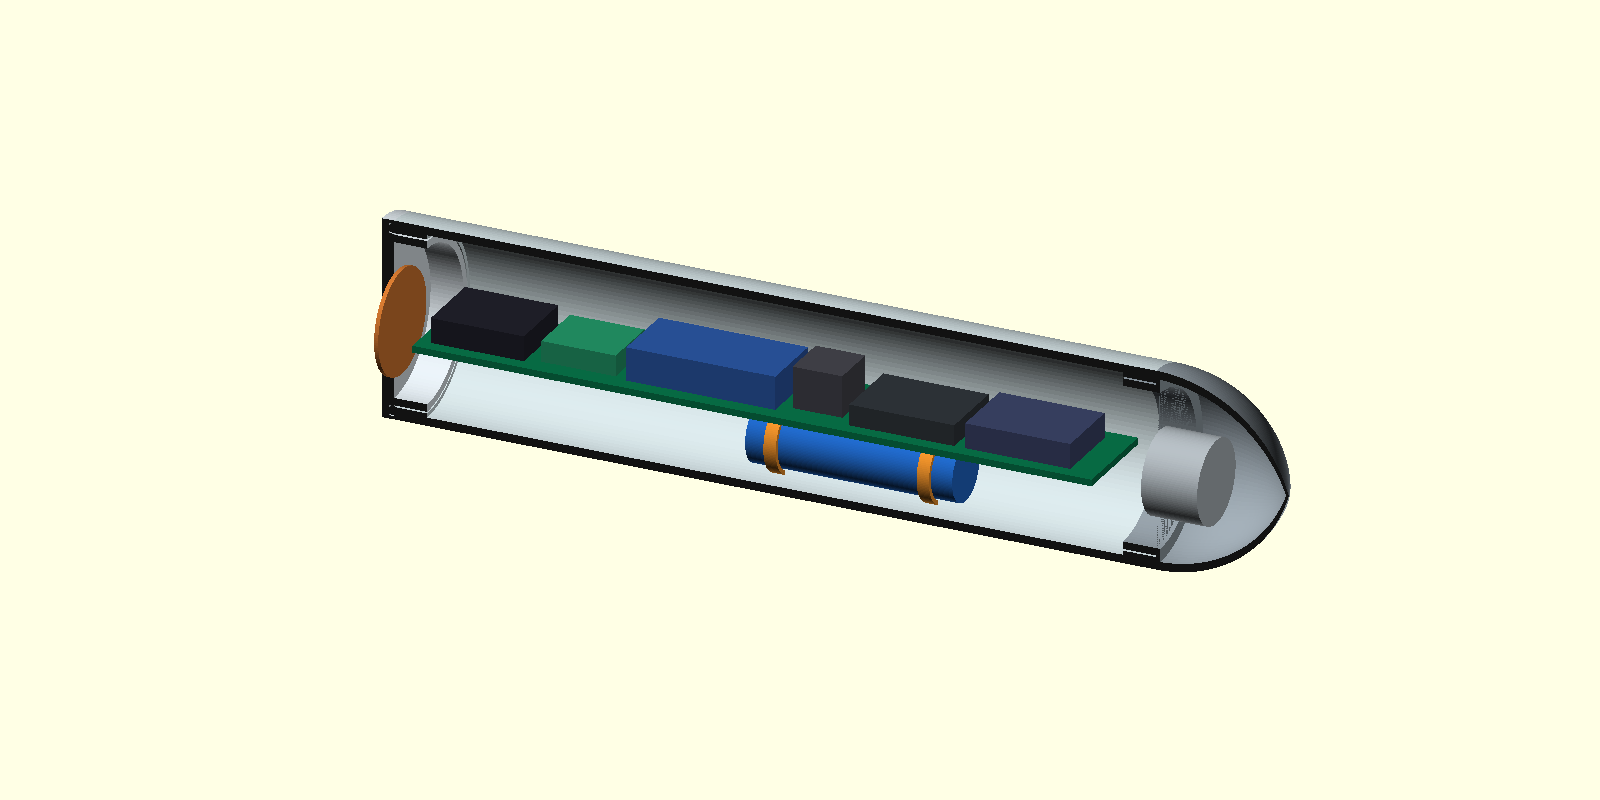
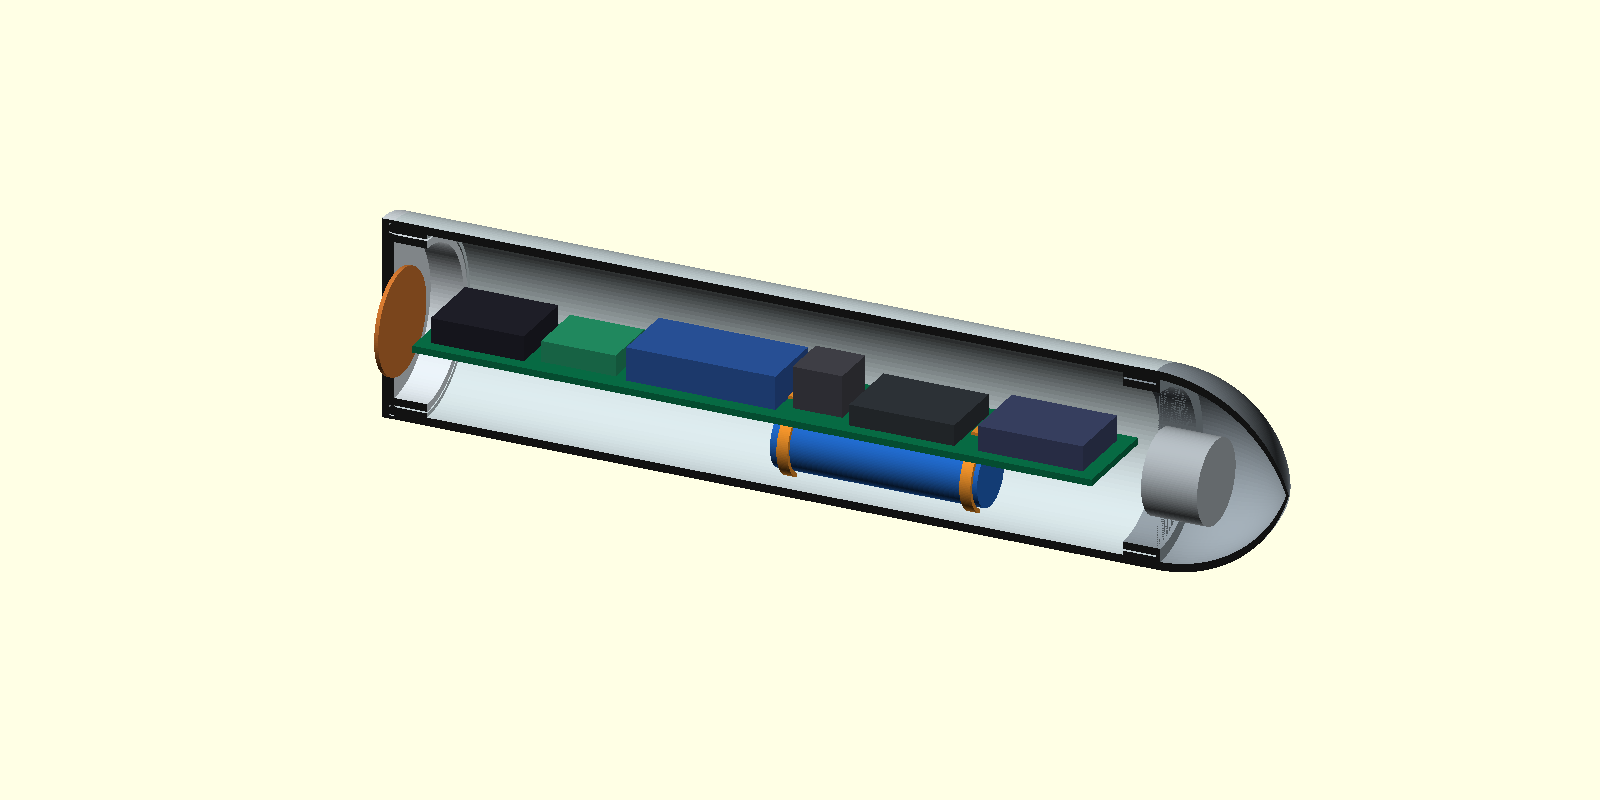
Reserve clear PCB spaces for battery clips

Changed region(s): [[0.5625, 0.5, 0.625, 0.6562], [0.6562, 0.5, 0.7188, 0.5938], [0.4688, 0.5312, 0.5, 0.5938]]

diff --git a/hardware/pcb_portadora/generar_vista.py b/hardware/pcb_portadora/generar_vista.py
@@ -26,7 +26,8 @@ text = BOARD.read_text(encoding="utf-8")
 outline = rectangles(text, "Edge.Cuts")
 front = rectangles(text, "F.Fab")
 back = rectangles(text, "B.Fab")
-if len(outline) != 1 or len(front) != 6 or len(back) != 1:
+clips = rectangles(text, "Dwgs.User")
+if len(outline) != 1 or len(front) != 6 or len(back) != 1 or len(clips) != 2:
     raise ValueError("Unexpected mechanical rectangles; review the rendering script")
 
 page_width, page_height = landscape(A4)
@@ -84,6 +85,8 @@ labels = [
 for rect, lines in zip(front, labels):
     draw_box(rect, top_y, colors.HexColor("#c5dfe6"))
     label(rect, top_y, lines)
+for rect in clips:
+    draw_box(rect, top_y, colors.HexColor("#f8a737"), colors.HexColor("#a45605"))
 
 pdf.setFont("Helvetica", 10)
 pdf.setFillColor(colors.HexColor("#172b35"))
@@ -96,6 +99,8 @@ bottom_y = top_y - 24 * scale - 65
 draw_box(outline[0], bottom_y, colors.HexColor("#eef4f1"))
 draw_box(back[0], bottom_y, colors.HexColor("#f8d7a7"), colors.HexColor("#ae7130"))
 label(back[0], bottom_y, ["14500 · 50 x 14 nominal", "bajo la PCB"])
+for rect in clips:
+    draw_box(rect, bottom_y, colors.HexColor("#f8a737"), colors.HexColor("#a45605"))
 
 pdf.setFillColor(colors.HexColor("#172b35"))
 pdf.setFont("Helvetica", 10)
@@ -104,7 +109,7 @@ for note in [
     "Contorno provisional: 164 x 24 mm. C1: reserva arbitraria de 12 x 12 mm.",
     "Bobina y actuador fuera de la placa. Dimensiones en mm; dibujo no apto para fabricar.",
     "Faltan huellas, conectores, pines, pistas, corriente del actuador y protecciones.",
-    "USB y bobina pueden interferir; clips de batería y distancias sin validar.",
+    "Naranja: reservas para clips, no ranuras finales. Verificar pines y cobre.",
 ]:
     pdf.drawString(55, notes_y, note)
     notes_y -= 15

diff --git a/hardware/capsula_3d/README.md b/hardware/capsula_3d/README.md
@@ -4,7 +4,7 @@ Interpretación del croquis y de la aclaración del usuario: **cuerpo cilíndric
 
 La [vista en corte](capsula_corte.png) muestra la geometría y los bloques de referencia; la bobina naranja se representa junto a la tapa, la batería azul bajo la PCB y el actuador en la punta.
 
-El ESP32 se ha trasladado al extremo de la tapa para orientar su USB-C hacia ella; el bloque no modela el conector. La bobina puede bloquear el acceso: falta comprobar el espacio del cable y definir si se aparta la bobina o se extrae el conjunto. Dos abrazaderas naranjas representan la idea del croquis para sujetar la batería bajo la PCB, **sin pestañas ni ranuras modeladas**. Son indicativas y no garantizan elasticidad, retención axial ni aislamiento; falta diseñar también los contactos eléctricos y las aberturas de la PCB.
+El ESP32 se ha trasladado al extremo de la tapa para orientar su USB-C hacia ella; el bloque no modela el conector. La bobina puede bloquear el acceso: falta comprobar el espacio del cable y definir si se aparta la bobina o se extrae el conjunto. Dos abrazaderas naranjas con pestañas y aberturas simbólicas representan la idea del croquis para sujetar la batería bajo la PCB. Sus pestañas están en los espacios entre boost y condensador y entre IMU y DRV8833, no bajo las envolventes mostradas. No hay un mecanismo de clic validado ni garantía de elasticidad, retención axial o aislamiento; faltan contactos, dimensionado de ranuras y comprobación de pines y cobre.
 
 **No es un diseño imprimible ni estanco.** Se representan encajes lisos simbólicos en ambas uniones y una junta tórica con ranura ilustrativa en la tapa: **todavía no hay roscas helicoidales** ni dimensiones de sellado verificadas. La sección transversal de la junta se superpone intencionadamente a la superficie del cuerpo en la vista ensamblada: no es una simulación validada de compresión. El diámetro, sección, alojamiento, compresión y material de la junta, el tipo de rosca, sentido, paso, holguras y sellado deben diseñarse para las piezas y el proceso de impresión. La unión de la ojiva también requiere una solución de estanqueidad. No existen fijaciones, guías, soporte de PCB ni paso de cables.
 

diff --git a/hardware/pcb_portadora/README.md b/hardware/pcb_portadora/README.md
@@ -10,7 +10,9 @@ El contorno rectangular de **164 × 24 mm** es una primera hipótesis de empaque
 
 El acceso USB **no está resuelto**: la bobina de carga ocupa el eje junto a la tapa y podría impedir introducir el conector. Habrá que comprobar el recorrido del cable y decidir si la bobina se aparta, si se extrae el conjunto u otra solución, sin comprometer el cierre. No conectar simultáneamente USB y otra alimentación hasta verificar el circuito de la placa.
 
-El croquis del usuario propone **dos piezas de sujeción bajo la PCB**, tipo abrazadera, con pestañas que encajarían en aberturas de la placa. Se representan de forma conceptual en la maqueta 3D, no en la PCB: no hay ranuras ni huellas de clips definidas. Falta dimensionar material, elasticidad, pestañas, separación, sujeción axial, aislamiento y contactos de la 14500; evitar presión o roce sobre la celda, cortocircuitos y daños por soldar directamente en ella.
+El croquis del usuario propone **dos piezas de sujeción bajo la PCB**, tipo abrazadera, con pestañas que encajarían en aberturas de la placa. Se reservan dos zonas **entre boost y C1, y entre IMU y DRV8833**, sin solaparse con los rectángulos de los módulos. El driver se ha desplazado hacia la punta y la batería hacia él. Las zonas están dibujadas en naranja en el PDF y en `Dwgs.User` en KiCad: son únicamente reservas, **no ranuras de fabricación** ni keepouts eléctricos. La maqueta 3D representa aberturas y pestañas simbólicas, pero no un mecanismo de clic.
+
+Los huecos entre envolventes son provisionales y pequeños: faltan pines, soldaduras, conectores, pistas y tolerancias. Habrá que mantener libre la zona para el movimiento de las pestañas y especificar restricciones de cobre y distancias eléctricas al diseñar la PCB; ampliar o recolocar componentes si no caben. Dimensionar material, elasticidad, pestañas, separación, sujeción axial, aislamiento y contactos de la 14500; evitar presión o roce sobre la celda, cortocircuitos y daños por soldar directamente en ella.
 
 | Reserva en la maqueta | Dimensiones de referencia (mm) | Estado |
 |---|---:|---|

diff --git a/docs/DISTRIBUCION_INTERIOR_CAPSULA.md b/docs/DISTRIBUCION_INTERIOR_CAPSULA.md
@@ -22,7 +22,7 @@ Propuesta para diseñar la cápsula impresa en 3D **a partir de los componentes*
 - La bobina receptora va junto a la tapa, enfrentada al transmisor externo, con su orientación y separación a validar mediante una prueba de carga.
 - El ESP32 se sitúa en el extremo de la PCB próximo a la tapa, con el USB-C orientado hacia ella. Siguen el receptor/cargador, boost, IMU y etapa DRV8833. Se diseñará una PCB portadora para soldar los módulos; en los que no traigan pines se colocarán pines adecuados. El dibujo no presupone conexiones eléctricas en serie. La bobina puede obstruir el USB: comprobar el conector y la posibilidad de apartarla o extraer la PCB; no se garantiza acceso con la cápsula montada.
 - La batería se sitúa bajo la PCB y cerca del extremo lastrado, donde quepa sin invadir el actuador. La orientación «bajo» se refiere a la cara del soporte, no a una dirección vertical fija durante la flotación.
-- El usuario propone dos abrazaderas bajo la PCB con pestañas que encajen en la placa. Su representación 3D es esquemática: ranuras, elasticidad, retención axial, aislamiento y contactos de la batería quedan por diseñar.
+- El usuario propone dos abrazaderas bajo la PCB con pestañas que encajen en huecos libres entre componentes. Se reservan espacios entre boost y condensador y entre IMU y DRV8833; la representación es esquemática. Ranuras, movimiento de las pestañas, pines, cobre, elasticidad, retención axial, aislamiento y contactos de la batería quedan por diseñar.
 - El actuador se sitúa en la punta, sujeto por su parte fija. Su masa móvil se guía paralela al eje `x` de la cápsula, con espacio para el recorrido y sin tocar carcasa, cables o lastre. La etapa de accionamiento se propone cerca del actuador, pero su ubicación depende de sus dimensiones, temperatura e interferencias.
 - El lastre debe ser fijable y, si es posible, ajustable; su posición final se determina con el conjunto real y no se supone que coincida con el espacio inmediatamente detrás del actuador.
 
